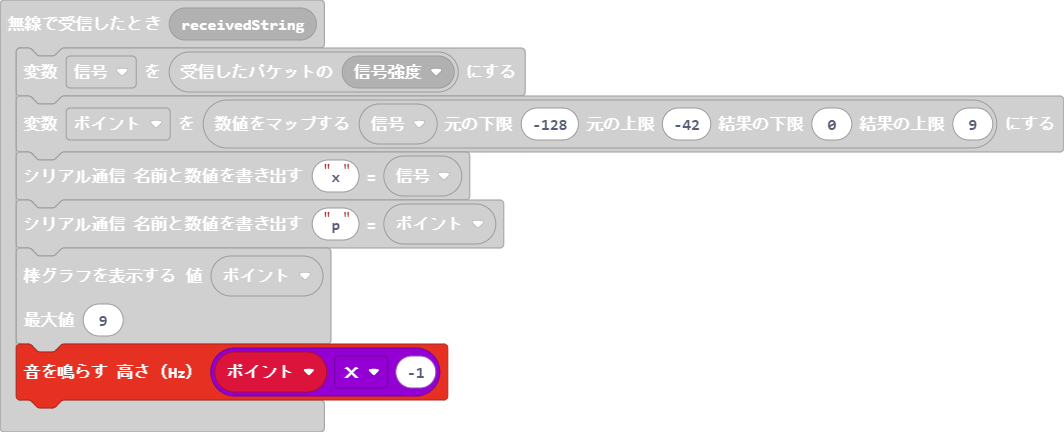
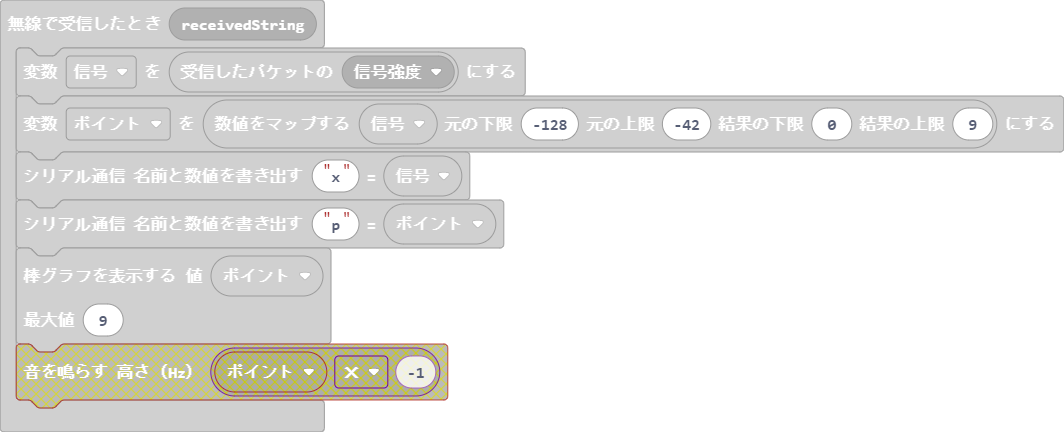
更新 main.blocks, main.ts

Changed region(s): [[0.0, 0.7824, 0.4342, 0.963]]

diff --git a/main.ts b/main.ts
@@ -7,7 +7,6 @@ radio.onReceivedString(function (receivedString) {
     ポイント,
     9
     )
-    music.ringTone(ポイント * -1)
 })
 let ポイント = 0
 let 信号 = 0
